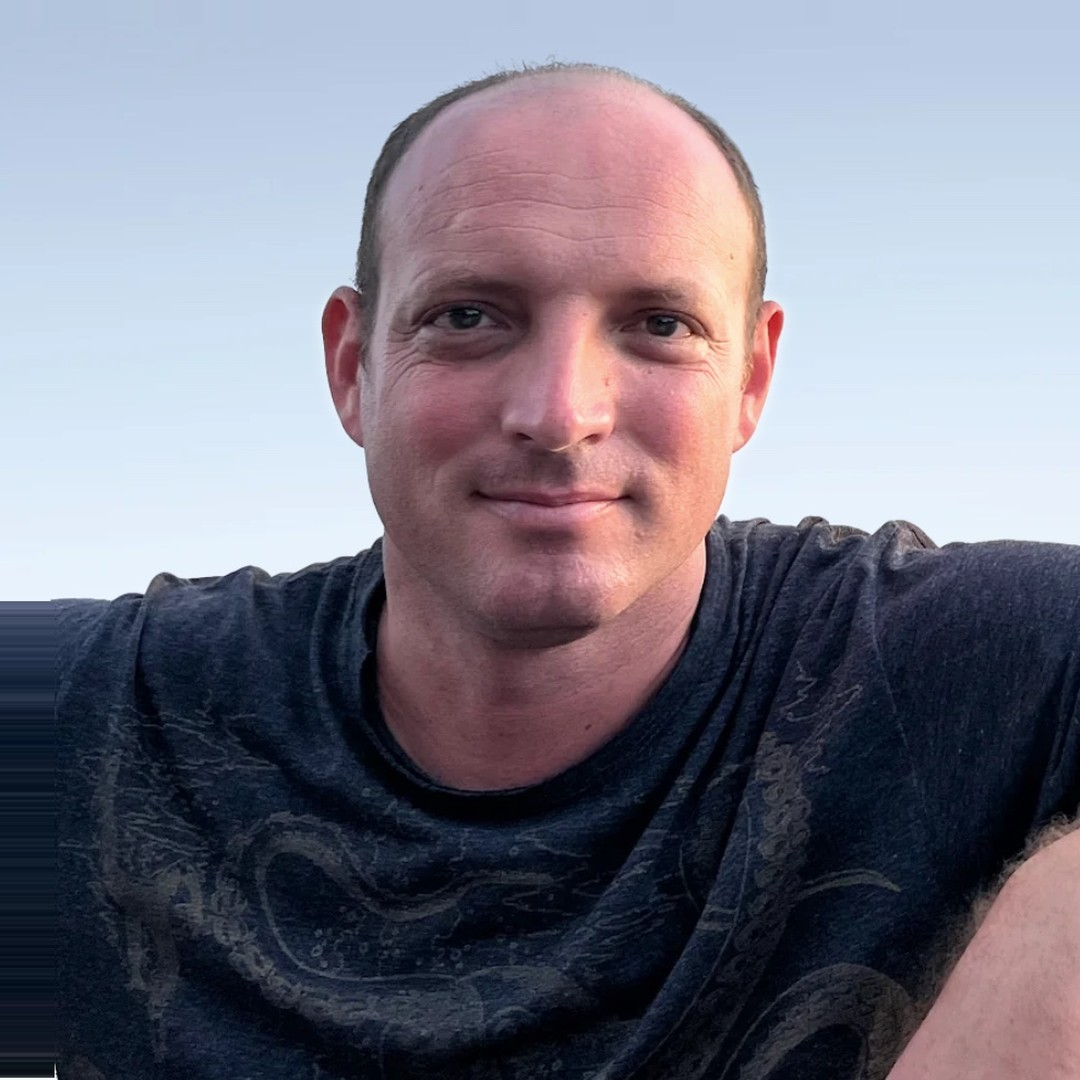
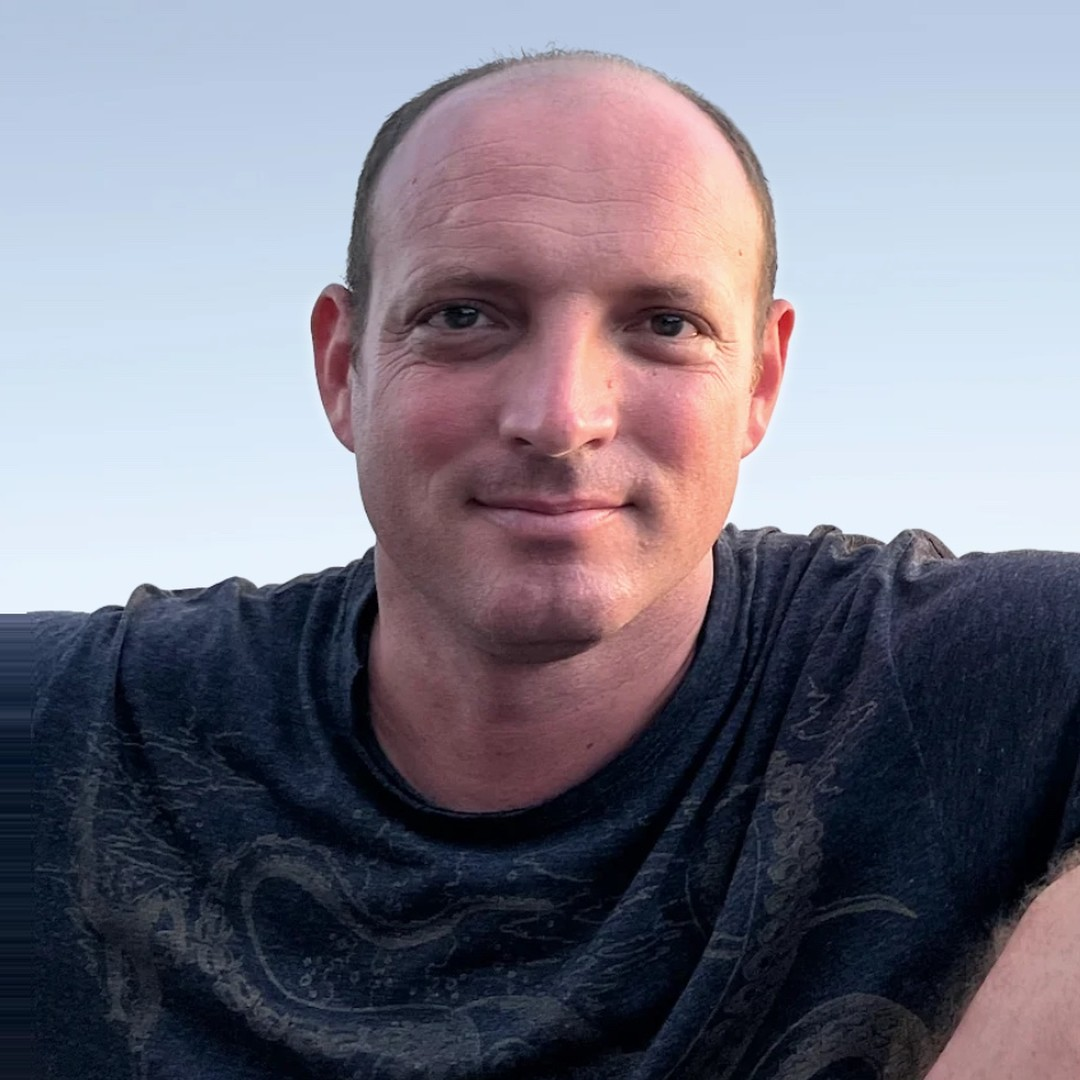
Set Noan Fesnoux's face size between the previous two crops
Claude-Session: https://claude.ai/code/session_01UY2yYSyHezMTLTrkPybDFD

diff --git a/team.html b/team.html
@@ -283,7 +283,7 @@
       </div>
       <div class="team-grid team-grid-advisory">
         <div class="team-card">
-          <div class="team-photo"><img src="assets/noan-fesnoux.jpg?v=4" alt="Noan Fesnoux"></div>
+          <div class="team-photo"><img src="assets/noan-fesnoux.jpg?v=5" alt="Noan Fesnoux"></div>
           <h3>Noan Fesnoux</h3>
           <p class="role">Teal Organizations</p>
         </div>
